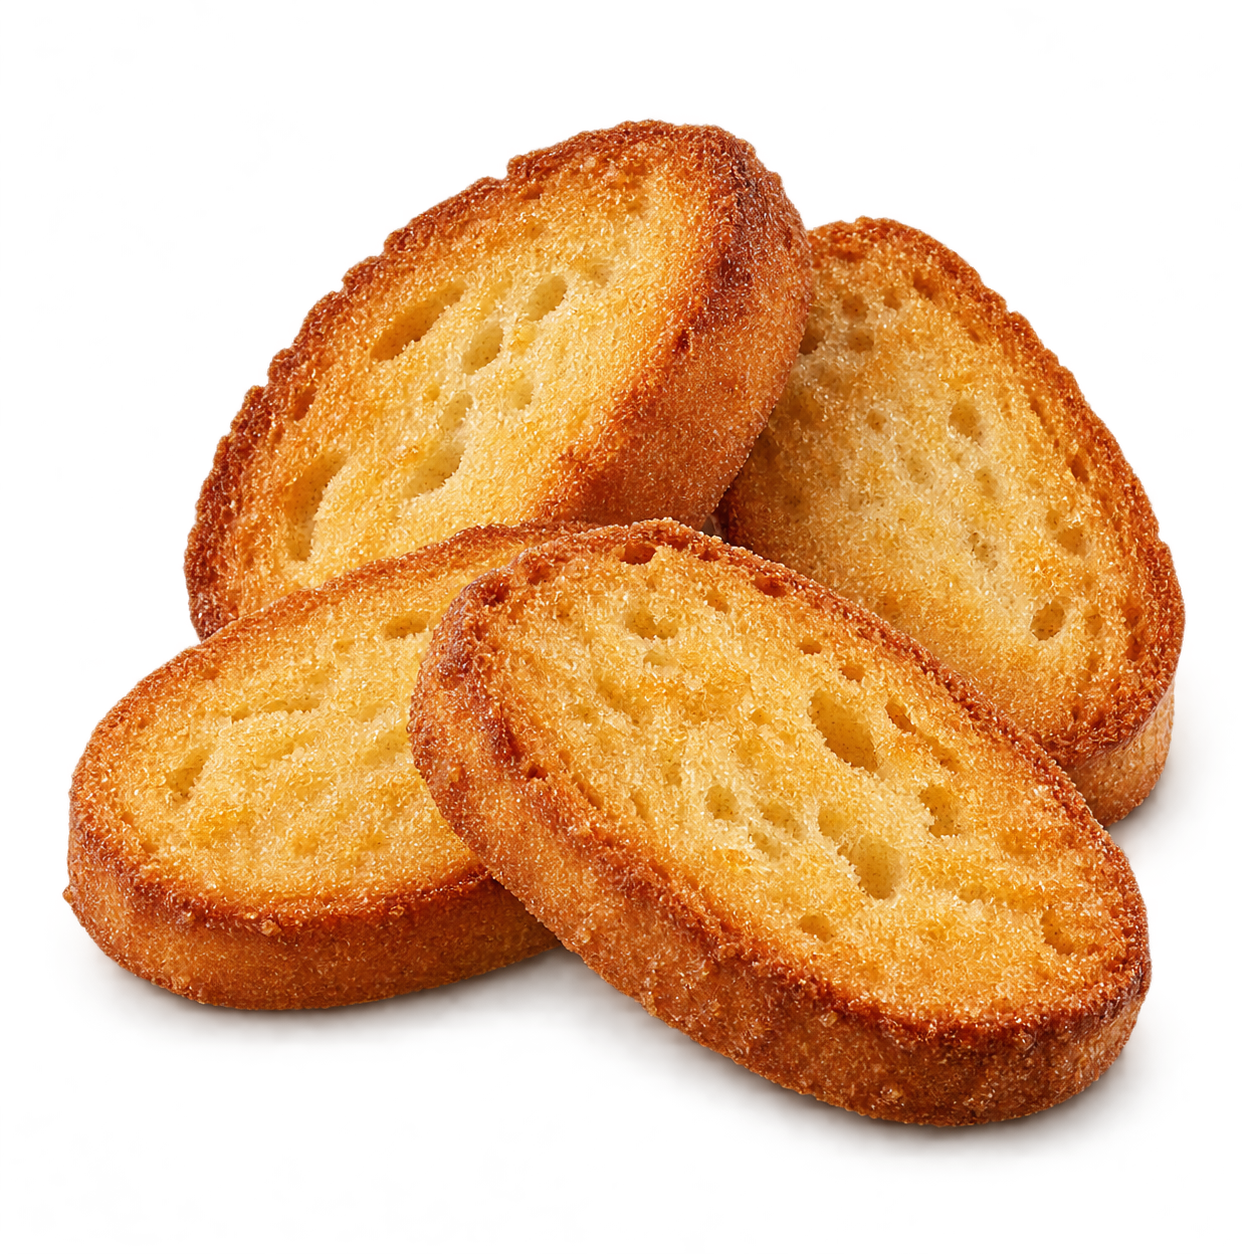
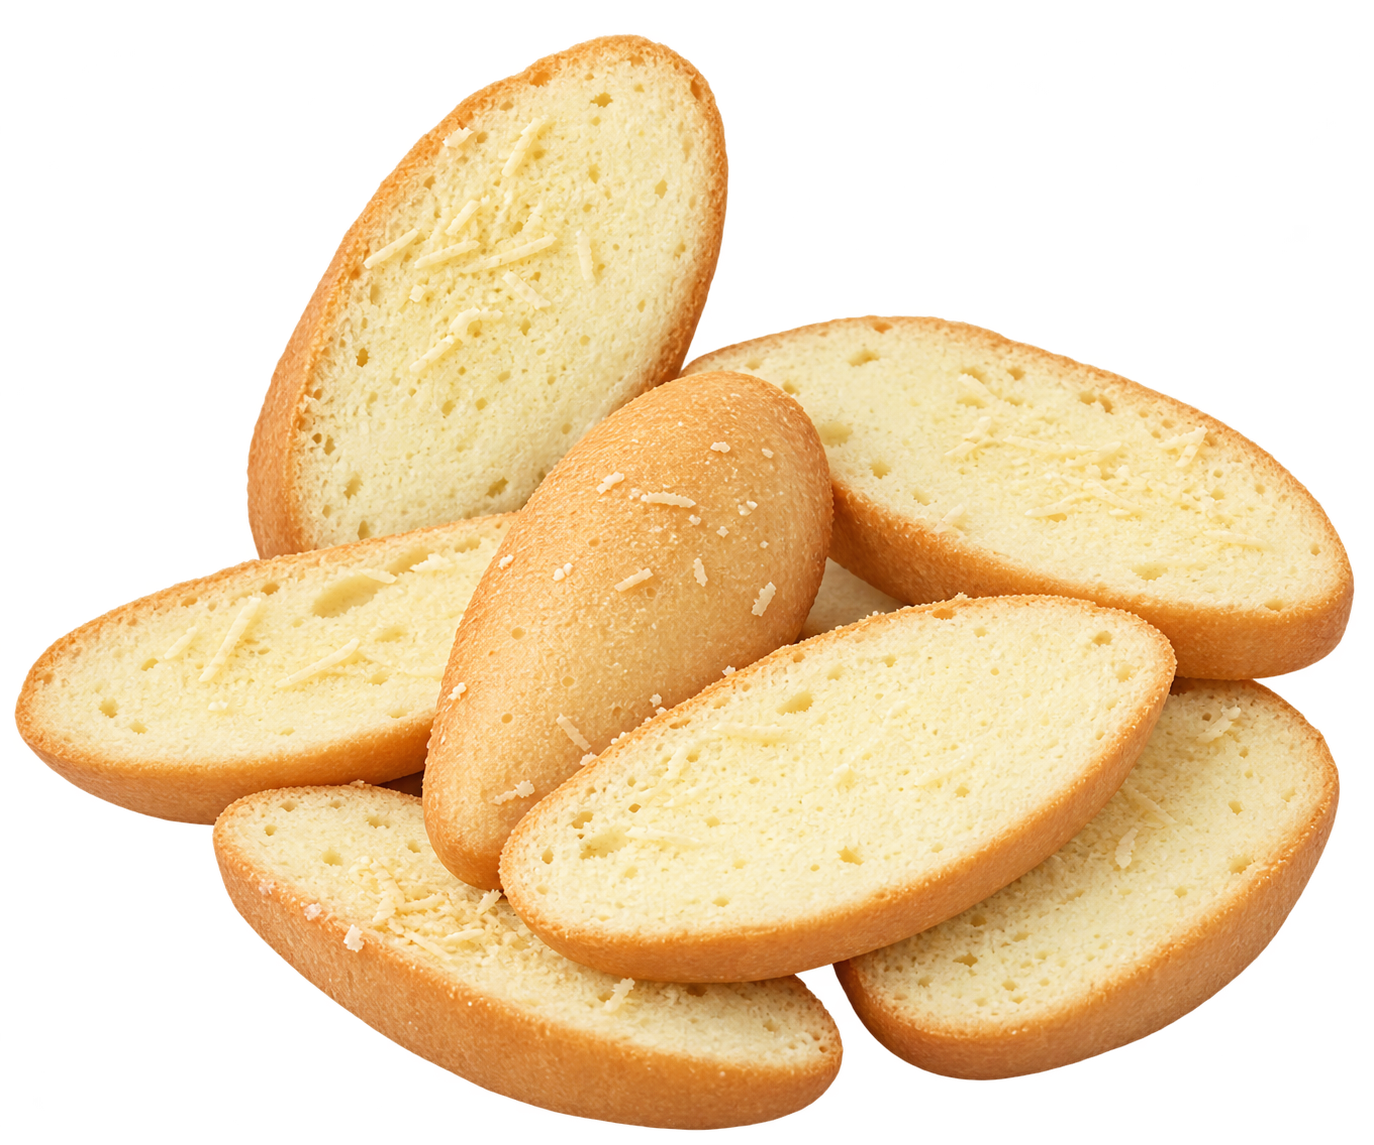
Match original bread and rusks to supplied product photos

diff --git a/dist/product-art.js b/dist/product-art.js
@@ -3,12 +3,12 @@
   const reduced = matchMedia('(prefers-reduced-motion: reduce)');
   const names = {roti:'Roti',brownies:'Brownies',kering:'Roti kering',pia:'Pia'};
   const descriptions = {
-    roti:'Ilustrasi roti susu dengan kulit keemasan dan serat bagian dalam yang lembut',
+    roti:'Render roti bulat dengan permukaan keemasan mengilap berdasarkan foto referensi',
     brownies:'Render brownies pandan, mocca, dan coklat bertabur wijen berdasarkan foto Nadia',
     kering:'Ilustrasi irisan roti kering panggang dengan tekstur renyah',
     pia:'Ilustrasi pia dengan kulit berlapis dan bagian dalam yang terlihat'
   };
-  const responses = {roti:'Lihat serat lembut di balik kulit keemasannya.',brownies:'Pandan, mocca, dan coklat. Tiga warna, tiga rasa.',kering:'Irisan renyah dengan tekstur panggang yang terlihat jelas.',pia:'Kulit berlapis tipis dengan isi di bagian tengah.'};
+  const responses = {roti:'Roti bulat dengan permukaan keemasan yang mengilap.',brownies:'Pandan, mocca, dan coklat. Tiga warna, tiga rasa.',kering:'Irisan renyah dengan tekstur panggang yang terlihat jelas.',pia:'Kulit berlapis tipis dengan isi di bagian tengah.'};
   function mount(host,type,hero=false){
     host.classList.add('render-scene');host.dataset.render=type;
     if(host.tagName==='BUTTON')host.setAttribute('aria-label',`Lihat detail ${names[type]}`);
@@ -37,7 +37,8 @@
   const pia=document.createElement('article');pia.className='product';pia.dataset.category='pia';pia.innerHTML='<button class="product-art product-art-3d" type="button" aria-label="Lihat detail Pia"></button><div class="product-title"><h3>Pia</h3><span>04</span></div><p>Berlapis lembut untuk teman minum teh dan berbagi bersama.</p><a class="product-link" href="https://wa.me/6285652428856?text=Halo%20Nadia%20Bakery%2C%20boleh%20tanya%20pilihan%20pia%3F" target="_blank" rel="noopener noreferrer">Tanya pilihan pia <span>↗</span></a>';products.append(pia);mount(pia.querySelector('button'),'pia');
   const filter=document.createElement('button');filter.dataset.filter='pia';filter.setAttribute('aria-pressed','false');filter.textContent='Pia';document.querySelector('.filters').append(filter);document.querySelector('[data-filter="all"] span').textContent='04';
   filter.addEventListener('click',()=>{document.querySelectorAll('[data-filter]').forEach(b=>{b.classList.toggle('active',b===filter);b.setAttribute('aria-pressed',String(b===filter));});document.querySelectorAll('[data-category]').forEach(p=>p.hidden=p.dataset.category!=='pia');});
-  const note=document.createElement('p');note.className='render-note';note.textContent='Visual produk merupakan ilustrasi. Brownies mengacu pada foto Nadia; bentuk dan pilihan produk lain dapat dikonfirmasi saat memesan.';document.querySelector('.catalog-note').before(note);
+  const note=document.createElement('p');note.className='render-note';note.textContent='Visual produk merupakan ilustrasi. Roti, roti kering, dan brownies mengacu pada foto referensi; pilihan produk dapat dikonfirmasi saat memesan.';document.querySelector('.catalog-note').before(note);
   if('IntersectionObserver' in window){const observer=new IntersectionObserver(entries=>entries.forEach(e=>e.target.classList.toggle('render-visible',e.isIntersecting)),{rootMargin:'60px'});document.querySelectorAll('.render-scene').forEach(el=>observer.observe(el));}
   else document.querySelectorAll('.render-scene').forEach(el=>el.classList.add('render-visible'));
 })();
+

diff --git a/product-art.js b/product-art.js
@@ -3,12 +3,12 @@
   const reduced = matchMedia('(prefers-reduced-motion: reduce)');
   const names = {roti:'Roti',brownies:'Brownies',kering:'Roti kering',pia:'Pia'};
   const descriptions = {
-    roti:'Ilustrasi roti susu dengan kulit keemasan dan serat bagian dalam yang lembut',
+    roti:'Render roti bulat dengan permukaan keemasan mengilap berdasarkan foto referensi',
     brownies:'Render brownies pandan, mocca, dan coklat bertabur wijen berdasarkan foto Nadia',
     kering:'Ilustrasi irisan roti kering panggang dengan tekstur renyah',
     pia:'Ilustrasi pia dengan kulit berlapis dan bagian dalam yang terlihat'
   };
-  const responses = {roti:'Lihat serat lembut di balik kulit keemasannya.',brownies:'Pandan, mocca, dan coklat. Tiga warna, tiga rasa.',kering:'Irisan renyah dengan tekstur panggang yang terlihat jelas.',pia:'Kulit berlapis tipis dengan isi di bagian tengah.'};
+  const responses = {roti:'Roti bulat dengan permukaan keemasan yang mengilap.',brownies:'Pandan, mocca, dan coklat. Tiga warna, tiga rasa.',kering:'Irisan renyah dengan tekstur panggang yang terlihat jelas.',pia:'Kulit berlapis tipis dengan isi di bagian tengah.'};
   function mount(host,type,hero=false){
     host.classList.add('render-scene');host.dataset.render=type;
     if(host.tagName==='BUTTON')host.setAttribute('aria-label',`Lihat detail ${names[type]}`);
@@ -37,7 +37,8 @@
   const pia=document.createElement('article');pia.className='product';pia.dataset.category='pia';pia.innerHTML='<button class="product-art product-art-3d" type="button" aria-label="Lihat detail Pia"></button><div class="product-title"><h3>Pia</h3><span>04</span></div><p>Berlapis lembut untuk teman minum teh dan berbagi bersama.</p><a class="product-link" href="https://wa.me/6285652428856?text=Halo%20Nadia%20Bakery%2C%20boleh%20tanya%20pilihan%20pia%3F" target="_blank" rel="noopener noreferrer">Tanya pilihan pia <span>↗</span></a>';products.append(pia);mount(pia.querySelector('button'),'pia');
   const filter=document.createElement('button');filter.dataset.filter='pia';filter.setAttribute('aria-pressed','false');filter.textContent='Pia';document.querySelector('.filters').append(filter);document.querySelector('[data-filter="all"] span').textContent='04';
   filter.addEventListener('click',()=>{document.querySelectorAll('[data-filter]').forEach(b=>{b.classList.toggle('active',b===filter);b.setAttribute('aria-pressed',String(b===filter));});document.querySelectorAll('[data-category]').forEach(p=>p.hidden=p.dataset.category!=='pia');});
-  const note=document.createElement('p');note.className='render-note';note.textContent='Visual produk merupakan ilustrasi. Brownies mengacu pada foto Nadia; bentuk dan pilihan produk lain dapat dikonfirmasi saat memesan.';document.querySelector('.catalog-note').before(note);
+  const note=document.createElement('p');note.className='render-note';note.textContent='Visual produk merupakan ilustrasi. Roti, roti kering, dan brownies mengacu pada foto referensi; pilihan produk dapat dikonfirmasi saat memesan.';document.querySelector('.catalog-note').before(note);
   if('IntersectionObserver' in window){const observer=new IntersectionObserver(entries=>entries.forEach(e=>e.target.classList.toggle('render-visible',e.isIntersecting)),{rootMargin:'60px'});document.querySelectorAll('.render-scene').forEach(el=>observer.observe(el));}
   else document.querySelectorAll('.render-scene').forEach(el=>el.classList.add('render-visible'));
 })();
+

diff --git a/ASSET-CORRECTIONS.md b/ASSET-CORRECTIONS.md
@@ -1,0 +1,15 @@
+# Reference-matched replacements
+
+These replace the roti and kering prompts in ASSET-PROMPTS.md. Brownies and pia remain unchanged. Generated transparent CGI illustrations, not actual product photographs.
+
+## Roti
+Reference: D:/Portfolio/Nadia Roti/Roti.webp
+Output: assets/render-roti.png and dist/assets/render-roti.png
+
+Create a premium realistic 3D food product illustration matching the attached actual bread photo closely. Exactly three separate round slightly squarish Indonesian sweet bread buns arranged triangularly, two below and one resting above. Glossy egg-washed golden amber domed tops with natural tiny wrinkles, pale soft cream sides and faint baked seams, same shape and proportions as reference. All buns intact: no torn pieces, no connected loaf, no cuts, no toppings, no filling visible. Isolated transparent background, no plate, no butter, no props, no text, no border. Three quarter front view, soft studio lighting, detailed believable bread texture, restrained contact shadows, entire cluster centered with 10 percent clear margins. Delicious polished photoreal CGI product art, preserve actual product identity.
+
+## Roti kering
+Reference: D:/Portfolio/Nadia Roti/Roti Kering.jpg
+Output: assets/render-kering.png and dist/assets/render-kering.png
+
+Create a premium realistic 3D food product illustration closely matching the attached actual Indonesian roti kering photo. A small casually stacked group of 6 elongated oval oblique sliced bread rusks. IMPORTANT match the reference's pale buttery yellow fine-pored flat cut surfaces and thin light golden tan crust edges; these are LIGHTLY baked pale slices, NOT dark brown toasted croutons or round cookies. A few tiny pale grated cheese crumbs on cut surfaces as in reference. Long oval slices of small baguette-like bread, about 1cm thick, one slice leaning upright behind, others overlapping at different angles with large cut faces visible. Isolated transparent background, remove jar, tray, flowers and all props. No text. Soft studio lighting, realistic fine crumb and baked texture, attractive three quarter product view, whole cluster centered with 10 percent clear margins. Photorealistic 3D CGI food render preserving the actual reference product appearance.
